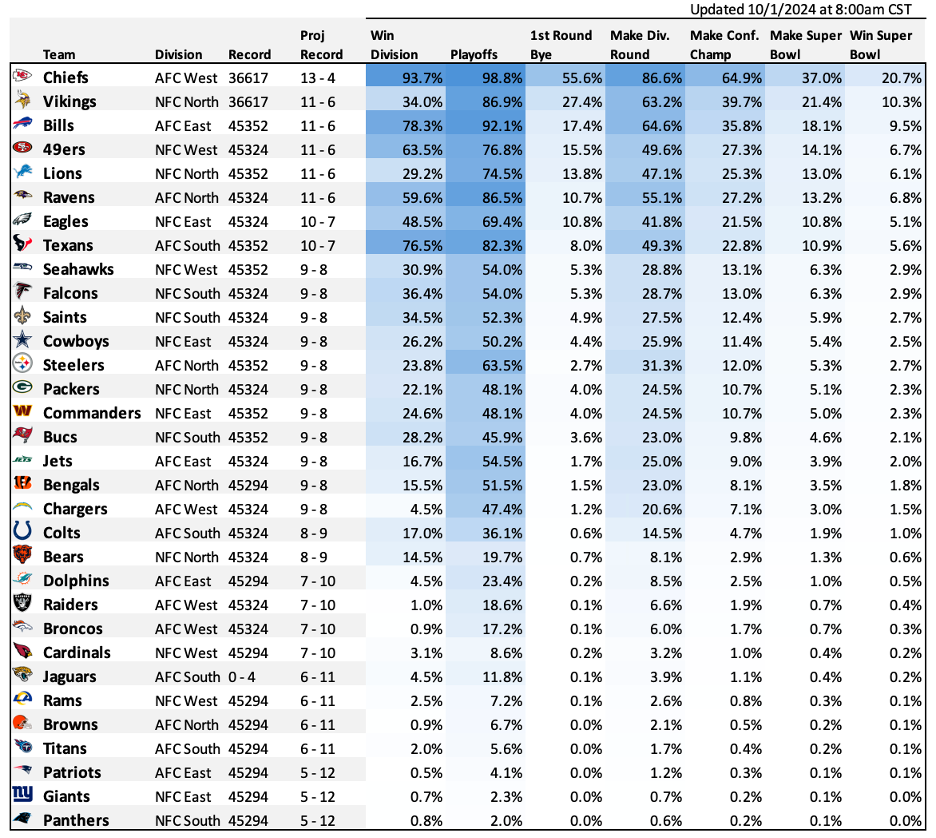
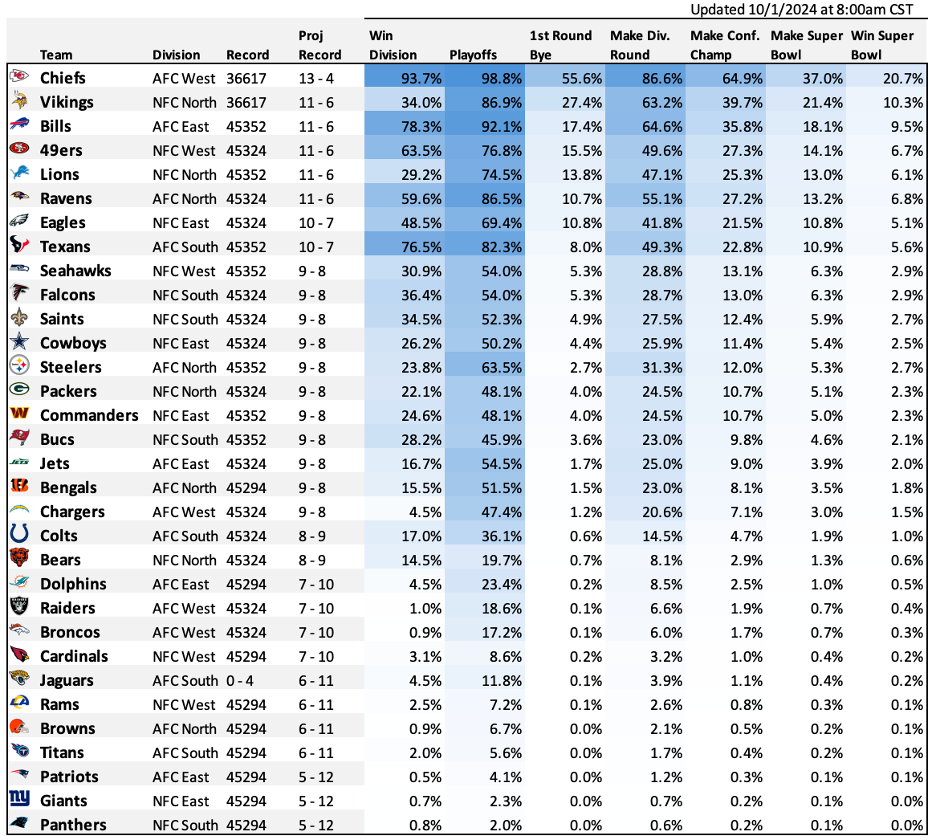
update nfl odds

Changed region(s): [[0.0, 0.0, 0.9915, 1.0]]

diff --git a/_posts/2024-09-10-nfl-in-season-odds2024.md b/_posts/2024-09-10-nfl-in-season-odds2024.md
@@ -3,12 +3,19 @@ layout: post
 title:  "NFL 2024 Forecast Model"
 author: drew
 categories: [ NFL, football ]
-image: "https://malteranalytics.github.io/assets/images/2024-09-03-nfl-odds-2024/image6.png"
+image: "https://malteranalytics.github.io/assets/images/2024-09-03-nfl-odds-2024/image7.png"
 tags: [nfl, sports, football, odds]
 featured: true
 ---
 
 Updated Tuesday mornings following the conclusion of each NFL week.
+
+***Forecast Entering Week 6***
+
+
+![plot 2](/assets/images/2024-09-03-nfl-odds-2024/image7.png) 
+
+
 
 
 ***Forecast Entering Week 5***
